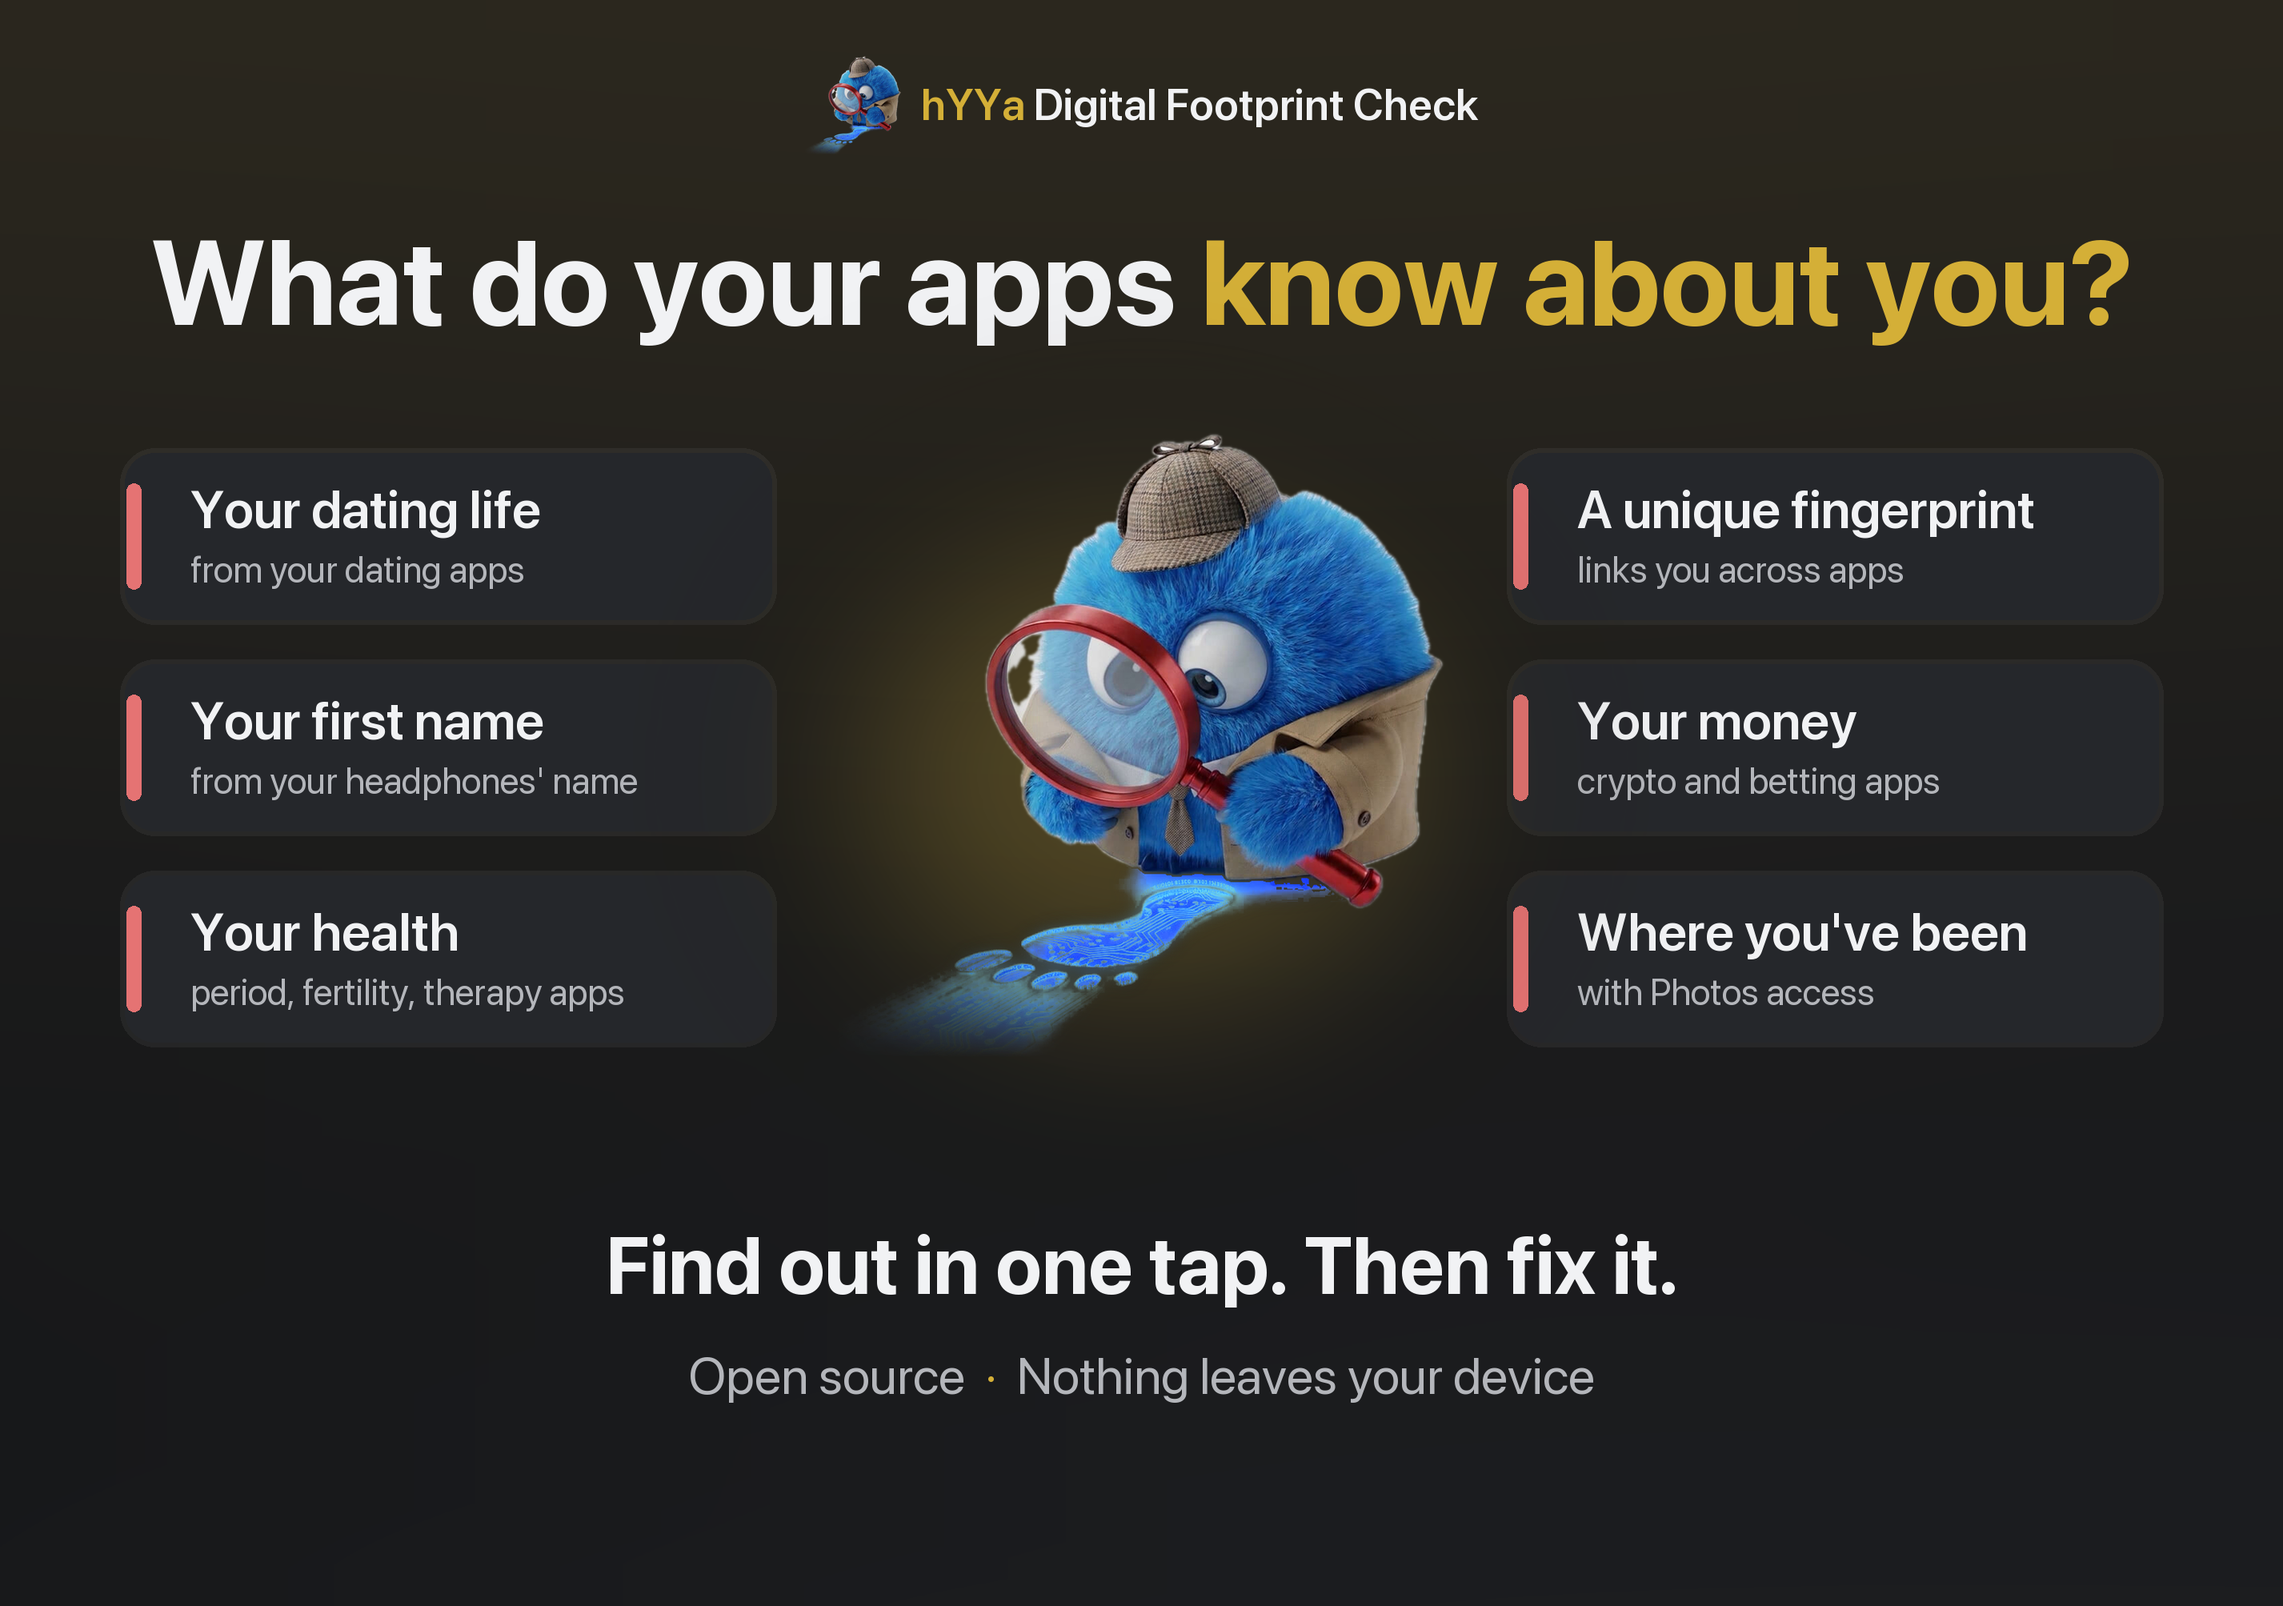
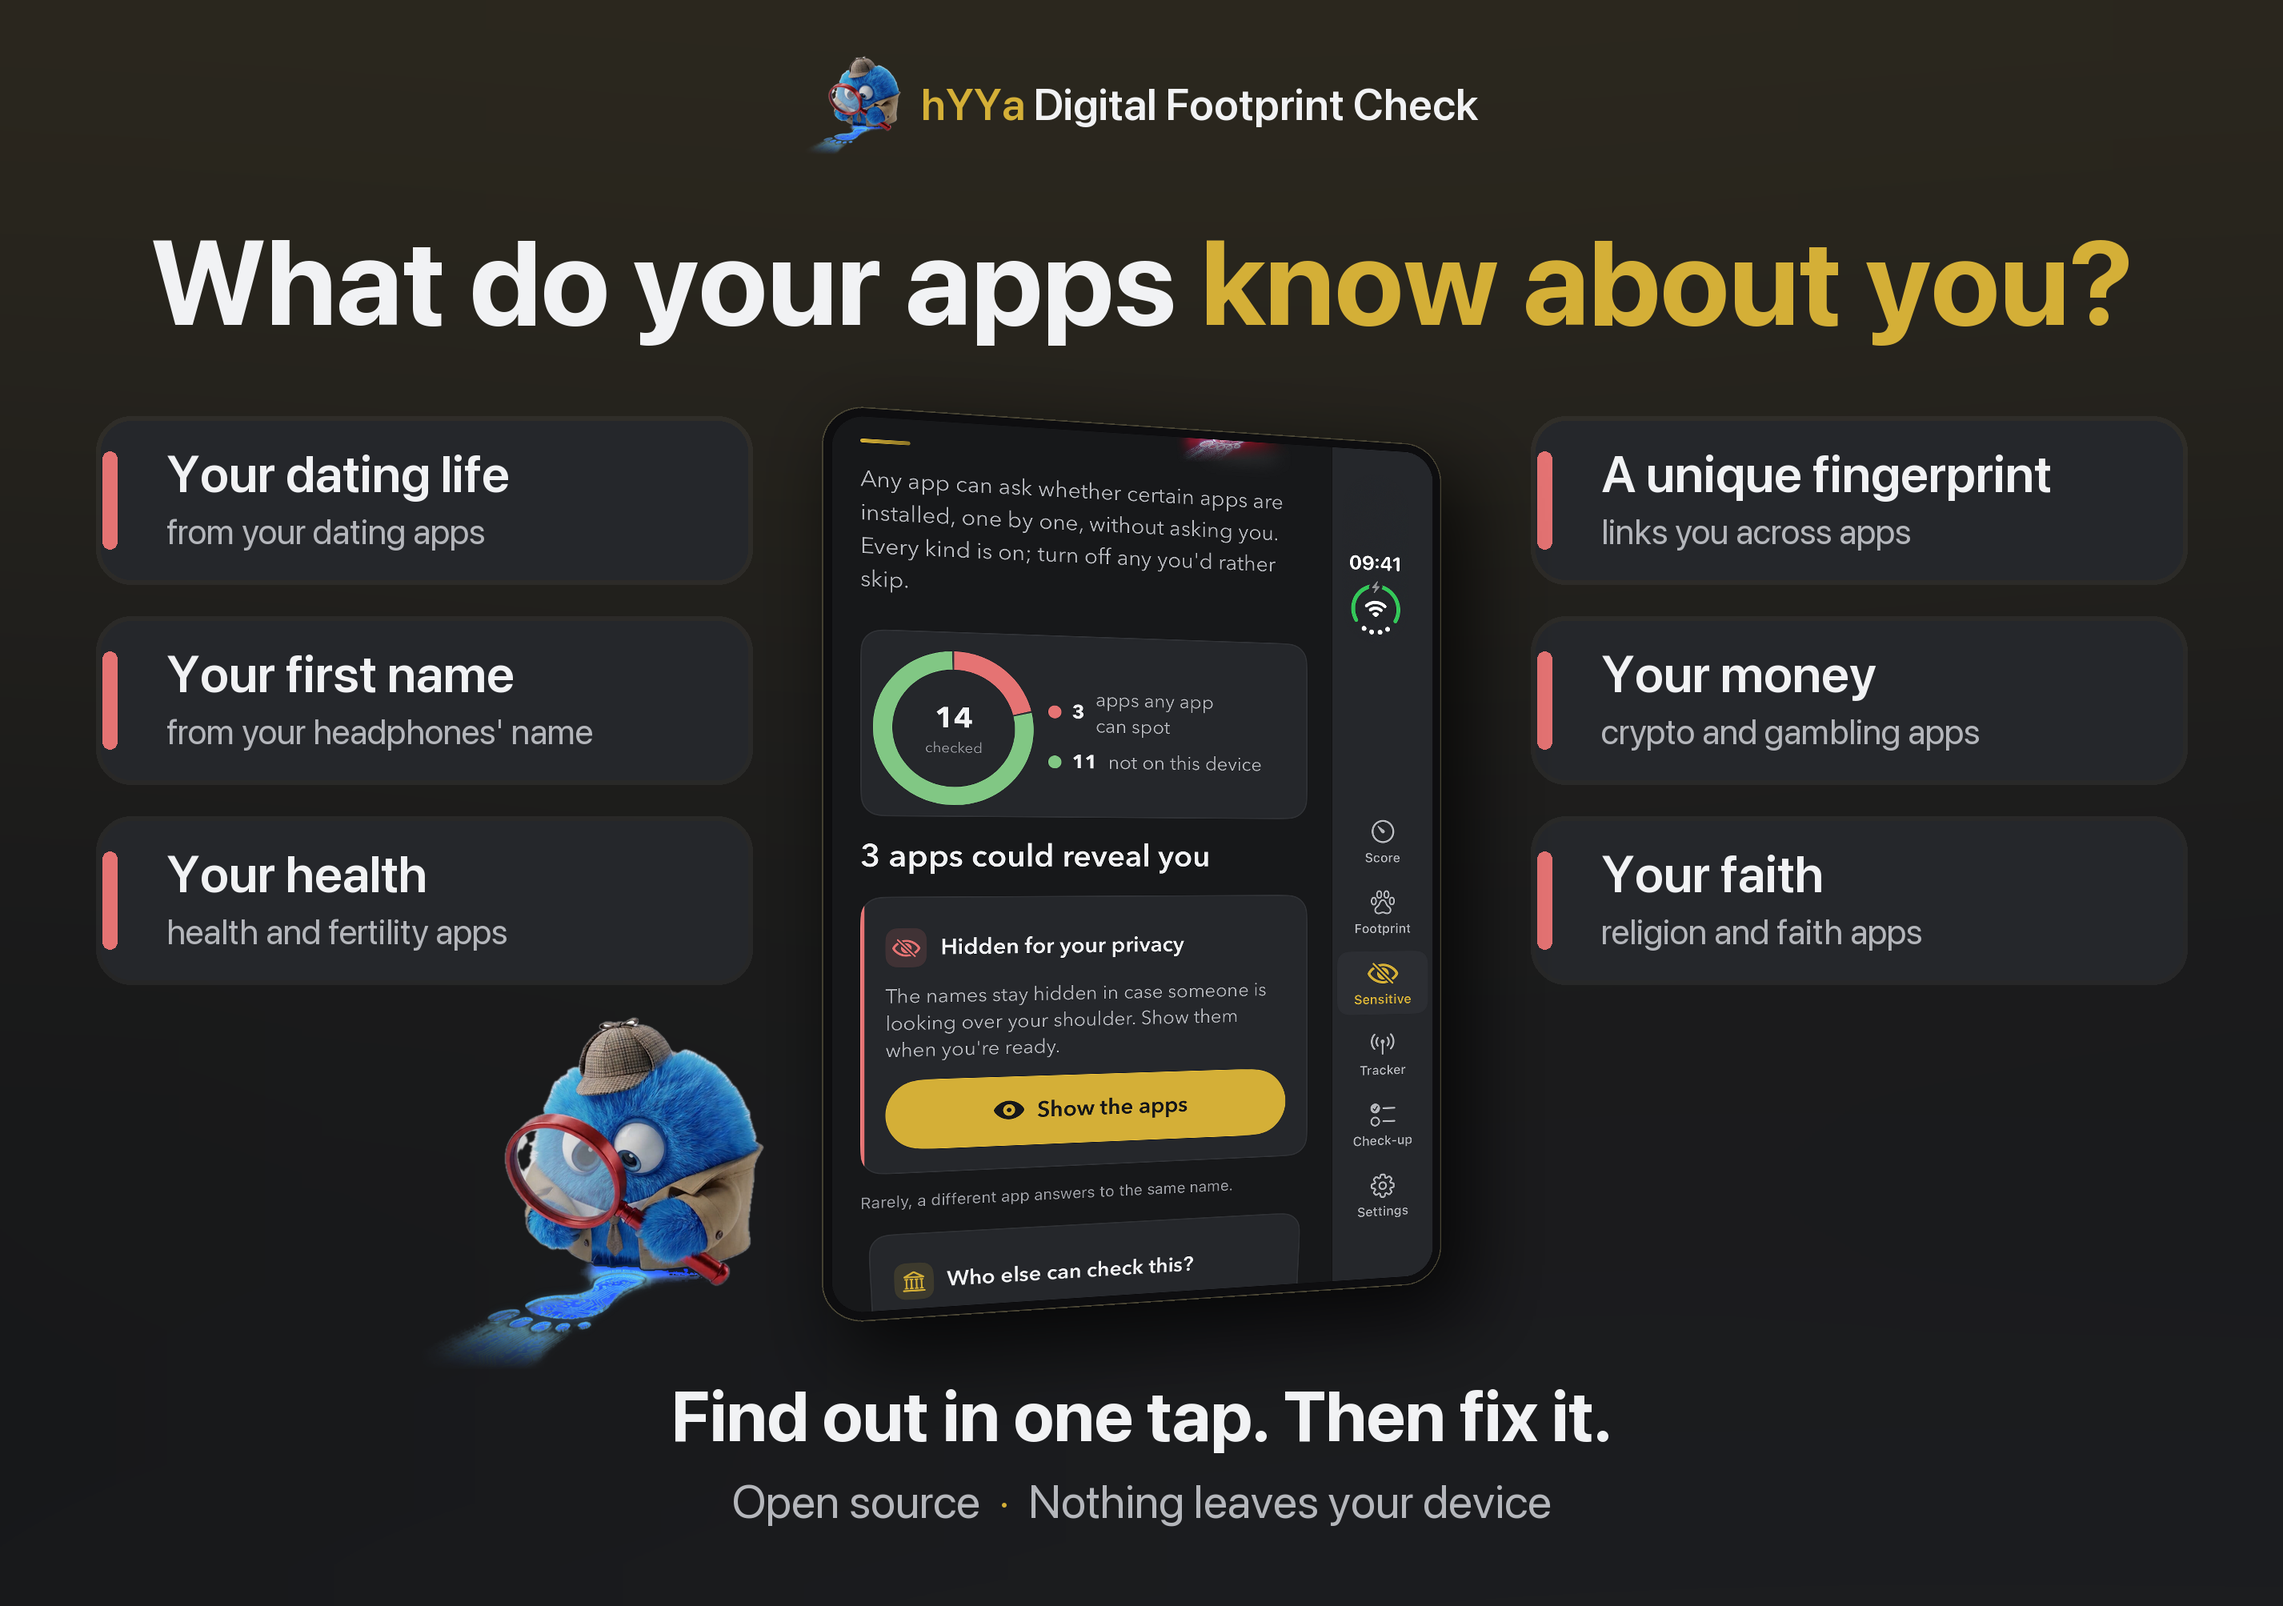
Product page test version A: cards only in hyya.com's wording (health and fertility, religion and faith, crypto and gambling) and a small device with the Sensitive apps result, names hidden (debug-only -previewSensitive, capture testCapturePPOSensitive)

diff --git a/UITests/StoreScreenshotsUITests.swift b/UITests/StoreScreenshotsUITests.swift
@@ -152,6 +152,31 @@ final class StoreScreenshotsUITests: XCTestCase {
         shot("ppo-b-rise", showing: app.buttons["Share your progress"])
     }
 
+    /// Product page test version A's small device: the Sensitive apps result with three made-up finds
+    /// (`-previewSensitive`), names still hidden as in the app. Attached as `ppo-a-sensitive`.
+    func testCapturePPOSensitive() {
+        app.launchArguments += ["-previewSensitive", "-startTab", "sensitive", "-sensitiveCategories", "dating,faith,health,money"]
+        app.launch()
+        sleep(2)
+        let check = app.buttons.containing(NSPredicate(format: "label BEGINSWITH 'Check '")).firstMatch
+        scrollTo(check, max: 6)
+        XCTAssertTrue(check.exists, "The Check button isn't on the page")
+        check.tap()
+        sleep(2)
+        // The result card: the ring, "3 apps could reveal you" and the hidden names, under the status bar.
+        let heading = app.staticTexts["3 apps could reveal you"].firstMatch
+        XCTAssertTrue(heading.waitForExistence(timeout: 10), "The result never showed")
+        let win = app.windows.firstMatch.frame
+        let show = app.buttons["Show the apps"].firstMatch
+        if show.exists && show.frame.maxY > win.maxY - 110 {
+            let from = app.coordinate(withNormalizedOffset: CGVector(dx: 0.4, dy: 0.8))
+            from.press(forDuration: 0.1, thenDragTo: from.withOffset(CGVector(dx: 0, dy: -(show.frame.maxY - win.maxY + 140))),
+                       withVelocity: 300, thenHoldForDuration: 0.5)
+            sleep(1)
+        }
+        shot("ppo-a-sensitive", showing: show)
+    }
+
     func testCaptureSettings() {
         app.launch()
         sleep(2)

diff --git a/App/Sources/Sensitive/SensitiveCatalogue.swift b/App/Sources/Sensitive/SensitiveCatalogue.swift
@@ -135,6 +135,17 @@ enum SensitiveCatalogue {
     @MainActor
     static func scan(_ categoryIDs: Set<String>) -> [String: [SensitiveApp]] {
         var found: [String: [SensitiveApp]] = [:]
+        #if DEBUG
+        // Renders only (debug builds, `-previewSensitive`): as if one listed app answered in each of dating, health and
+        // money, so a store shot can show a result on a Simulator, where none is installed. The names stay hidden.
+        if LaunchOptions.has("-previewSensitive") {
+            let pick = ["dating": "tinder", "health": "flo", "money": "coinbase"]
+            for category in categories where categoryIDs.contains(category.id) {
+                found[category.id] = category.checkedApps.filter { $0.scheme == pick[category.id] }
+            }
+            return found
+        }
+        #endif
         #if os(macOS)
         let installed = Set(MacAppsSource.installedAppNames().map { $0.lowercased() })
         #endif

diff --git a/scripts/make-ppo-slides.py b/scripts/make-ppo-slides.py
@@ -8,10 +8,11 @@ tests cover iOS and iPadOS only, so no Mac).
 
     python3 scripts/make-ppo-slides.py <raw-iphone> <raw-ipad> <raw-duo> <out-dir>
 
-Each raw dir holds ppo-b-rise.png from StoreScreenshotsUITests.testCapturePPORise (sample data; the Duo's is the
-folded outer display). The ideas are Marketing's 2026-11 plan, unchanged; only the look is new:
+Each raw dir holds ppo-b-rise.png (StoreScreenshotsUITests.testCapturePPORise) and ppo-a-sensitive.png
+(testCapturePPOSensitive), sample data only; the Duo's are the folded outer display. The ideas are Marketing's 2026-11 plan, unchanged; only the look is new:
   A  "What do your apps know about you?": six things an app can learn, as flat slate cards with a coral edge, the
-     mascot under a gold spotlight, "Find out in one tap. Then fix it." No app screen.
+     line "Find out in one tap. Then fix it.", then a small device with the Sensitive apps result, names hidden
+     (Marketing, 2026-11-27: only claims hyya.com states; show the app so review has no reason to object).
   B  "Fix it. Watch your score go up.": 45 -> 57 in big type over the real Footprint page after a fix
      (the made-up earlier scan of -previewRise).
 Slides 2-7 of each test version are the default page's own, so only slide 1 differs.
@@ -30,9 +31,11 @@ CORAL = (229, 115, 115)       # "worth a look"
 SAGE = (129, 199, 132)        # fixed / better
 EDGE = (255, 255, 255, 13)    # the cards' 1pt white 5% edge
 A_HEAD = "What do your apps *know\u00a0about\u00a0you?*"   # no-break spaces: the gold phrase stays on one line
+# Only what hyya.com and the app state (Marketing, 2026-11-27): Sensitive apps categories in hyya.com's own words,
+# the headphones' name and the device fingerprint.
 A_CARDS = [("Your dating life", "from your dating apps"), ("A unique fingerprint", "links you across apps"),
-           ("Your first name", "from your headphones' name"), ("Your money", "crypto and betting apps"),
-           ("Your health", "period, fertility, therapy apps"), ("Where you've been", "with Photos access")]
+           ("Your first name", "from your headphones' name"), ("Your money", "crypto and gambling apps"),
+           ("Your health", "health and fertility apps"), ("Your faith", "religion and faith apps")]
 A_FOOT = "Find out in one tap. Then fix it."
 A_SUB = ["Open source", "Nothing leaves your device"]   # no price words on screenshots
 B_HEAD = "Fix it. Watch your score *go\u00a0up.*"
@@ -92,36 +95,42 @@ def numbers(d, cx, y, size, max_w=None):
 
 # ---- portrait: iPhone 6.9" and iPad 13" -------------------------------------------------------------------------
 
-def portrait_a(w, h, mascot):
+def portrait_a(w, h, mascot, shot):
+    """Marketing, 2026-11-27: the cards, the line, then a small device with the Sensitive apps result (names hidden),
+    so the first slide shows the app; the mascot stands beside the device as on the default page."""
     c = S.glow_background(w, h).convert("RGBA")
     d = ImageDraw.Draw(c)
     unit = w / 1320
     tablet = w / h > 0.6
     y = S.name_lockup(c, d, mascot, w / 2, int(90 * unit), int((40 if tablet else 50) * unit))
     y = S.centred_lines(d, S.headline_parts(A_HEAD), y + int(50 * unit), w * 0.88, int((96 if tablet else 112) * unit), "Bold", w, 1.1)
-    # Six cards in two columns.
-    cols, gap = 2, int((34 if tablet else 30) * unit)
+    cols, gap = 2, int((26 if tablet else 24) * unit)
     grid_w = w * (0.80 if tablet else 0.90)
     cw = (grid_w - gap) / cols
-    ch = int((150 if tablet else 190) * unit)
+    ch = int((118 if tablet else 160) * unit)
     x0 = (w - grid_w) / 2
-    top = y + int(60 * unit)
-    tsize, ssize = int((44 if tablet else 50) * unit), int((32 if tablet else 36) * unit)
-    for i, (t, s) in enumerate(A_CARDS):
+    top = y + int(44 * unit)
+    tsize, ssize = int((40 if tablet else 46) * unit), int((29 if tablet else 33) * unit)
+    for i, (t, s_) in enumerate(A_CARDS):
         r, k = divmod(i, cols)
-        bx = x0 + k * (cw + gap)
-        by = top + r * (ch + gap)
-        card(c, (int(bx), int(by), int(bx + cw), int(by + ch)), t, s, unit, tsize, ssize)
-    cards_end = top + 3 * ch + 2 * gap
-    # Footer, then the mascot fills the room between.
-    fsize, ssz = int((64 if tablet else 66) * unit), int((40 if tablet else 42) * unit)
-    foot_y = h - int(90 * unit) - ssz - int(26 * unit) - fsize
-    room = foot_y - int(50 * unit) - (cards_end + int(50 * unit))
-    mw = min(int(w * (0.42 if tablet else 0.62)), int(room * mascot.width / mascot.height))
-    mh = int(mw * mascot.height / mascot.width)
-    spotlight_mascot(c, mascot, mw, w / 2, cards_end + int(50 * unit) + (room - mh) / 2)
-    y = S.centred_lines(d, [(A_FOOT, S.INK)], foot_y, w * 0.9, fsize, "Bold", w, 1.1)
-    S.centred_lines(d, S.highlight_parts(A_SUB), y + int(26 * unit), w * 0.9, ssz, "Regular", w, 1.3, break_at={S.DOT})
+        bx, by = x0 + k * (cw + gap), top + r * (ch + gap)
+        card(c, (int(bx), int(by), int(bx + cw), int(by + ch)), t, s_, unit, tsize, ssize)
+    y = top + 3 * ch + 2 * gap
+    y = S.centred_lines(d, [(A_FOOT, S.INK)], y + int(46 * unit), w * 0.9, int((54 if tablet else 60) * unit), "Bold", w, 1.1)
+    y = S.centred_lines(d, S.highlight_parts(A_SUB), y + int(14 * unit), w * 0.9, int((36 if tablet else 40) * unit), "Regular", w, 1.3, break_at={S.DOT})
+    dev_y = y + int(50 * unit)
+    fit_w = int((h - dev_y - 70 * unit) * shot.width / shot.height)
+    dev_w = int(w * 0.62) if tablet else min(int(w * 0.62), fit_w)   # tablets run off the bottom, as on the default page
+    frame = S.device(shot, dev_w)
+    dev_x = (w - frame.width) // 2
+    sh = Image.new("RGBA", c.size, (0, 0, 0, 0))
+    ImageDraw.Draw(sh).rounded_rectangle((dev_x + 20, dev_y + 40, dev_x + frame.width + 20, dev_y + frame.height + 40), 80, fill=(0, 0, 0, 200))
+    c.alpha_composite(sh.filter(ImageFilter.GaussianBlur(40)))
+    c.alpha_composite(frame, (dev_x, dev_y))
+    edge = int(16 * unit)
+    big_w = min(int(w * (0.18 if tablet else 0.26)), int((dev_x - edge) / 0.82))
+    big = mascot.resize((big_w, int(big_w * mascot.height / mascot.width)), Image.LANCZOS)
+    c.alpha_composite(big, (max(edge, dev_x - int(big_w * 0.82)), h - big.height - int(30 * unit)))
     return c.convert("RGB")
 
 
@@ -164,24 +173,25 @@ def duo_header(c, d, mascot, head, sub_parts=None):
     D.centred_line(d, S.headline_parts(head), 260, W - 300, 150, "Bold")
 
 
-def duo_a(mascot):
+def duo_a(mascot, shot):
+    """Three cards each side of the folded Duo showing the Sensitive apps result; the line under them."""
     W, H = D.W, D.H
     c = S.glow_background(W, H).convert("RGBA")
     d = ImageDraw.Draw(c)
     duo_header(c, d, mascot, A_HEAD)
-    # Three cards each side of the mascot.
-    cw, ch, gap = 820, 220, 44
-    top = 560
-    for i, (t, s) in enumerate(A_CARDS):
+    cw, ch, gap = 820, 210, 40
+    top = 520
+    for i, (t, s_) in enumerate(A_CARDS):
         side, r = i % 2, i // 2
-        bx = 150 if side == 0 else W - 150 - cw
+        bx = 120 if side == 0 else W - 120 - cw
         by = top + r * (ch + gap)
-        card(c, (bx, by, bx + cw, by + ch), t, s, 2.0, 66, 46)
-    cards_end = top + 3 * ch + 2 * gap
-    mw = 760
-    spotlight_mascot(c, mascot, mw, W / 2, 540)
-    D.centred_line(d, [(A_FOOT, S.INK)], 1520, W - 400, 100, "Bold")
-    D.centred_line(d, S.highlight_parts(A_SUB), 1680, W - 400, 64, "Regular")
+        card(c, (bx, by, bx + cw, by + ch), t, s_, 2.0, 64, 44)
+    D.upright(c, shot, 1150, W // 2, 1080)
+    # The standing mascot under the left cards, beside the device, never over it.
+    big = mascot.resize((430, int(430 * mascot.height / mascot.width)), Image.LANCZOS)
+    c.alpha_composite(big, (W // 2 - 430 - 470, top + 3 * ch + 2 * gap + 40))
+    D.centred_line(d, [(A_FOOT, S.INK)], 1715, W - 400, 88, "Bold")
+    D.centred_line(d, S.highlight_parts(A_SUB), 1840, W - 400, 58, "Regular")
     return c.convert("RGB")
 
 
@@ -209,11 +219,11 @@ if __name__ == "__main__":
     jobs = [("iphone-6.9", 1320, 2868, raw_iphone), ("ipad-13", 2064, 2752, raw_ipad)]
     for name, w, h, raw in jobs:
         (out / "A" / name).mkdir(parents=True, exist_ok=True); (out / "B" / name).mkdir(parents=True, exist_ok=True)
-        portrait_a(w, h, mascot).save(out / "A" / name / "01-ppo-a.png", optimize=True)
+        portrait_a(w, h, mascot, Image.open(raw / "ppo-a-sensitive.png")).save(out / "A" / name / "01-ppo-a.png", optimize=True)
         portrait_b(w, h, mascot, Image.open(raw / "ppo-b-rise.png")).save(out / "B" / name / "01-ppo-b.png", optimize=True)
     for v in "AB":
         (out / v / "duo").mkdir(parents=True, exist_ok=True)
-    duo_a(mascot).save(out / "A" / "duo" / "01-ppo-a.png", optimize=True)
+    duo_a(mascot, Image.open(raw_duo / "ppo-a-sensitive.png")).save(out / "A" / "duo" / "01-ppo-a.png", optimize=True)
     duo_b(mascot, Image.open(raw_duo / "ppo-b-rise.png")).save(out / "B" / "duo" / "01-ppo-b.png", optimize=True)
     for p in sorted(out.rglob("01-ppo-*.png")):
         print(p, Image.open(p).size)
